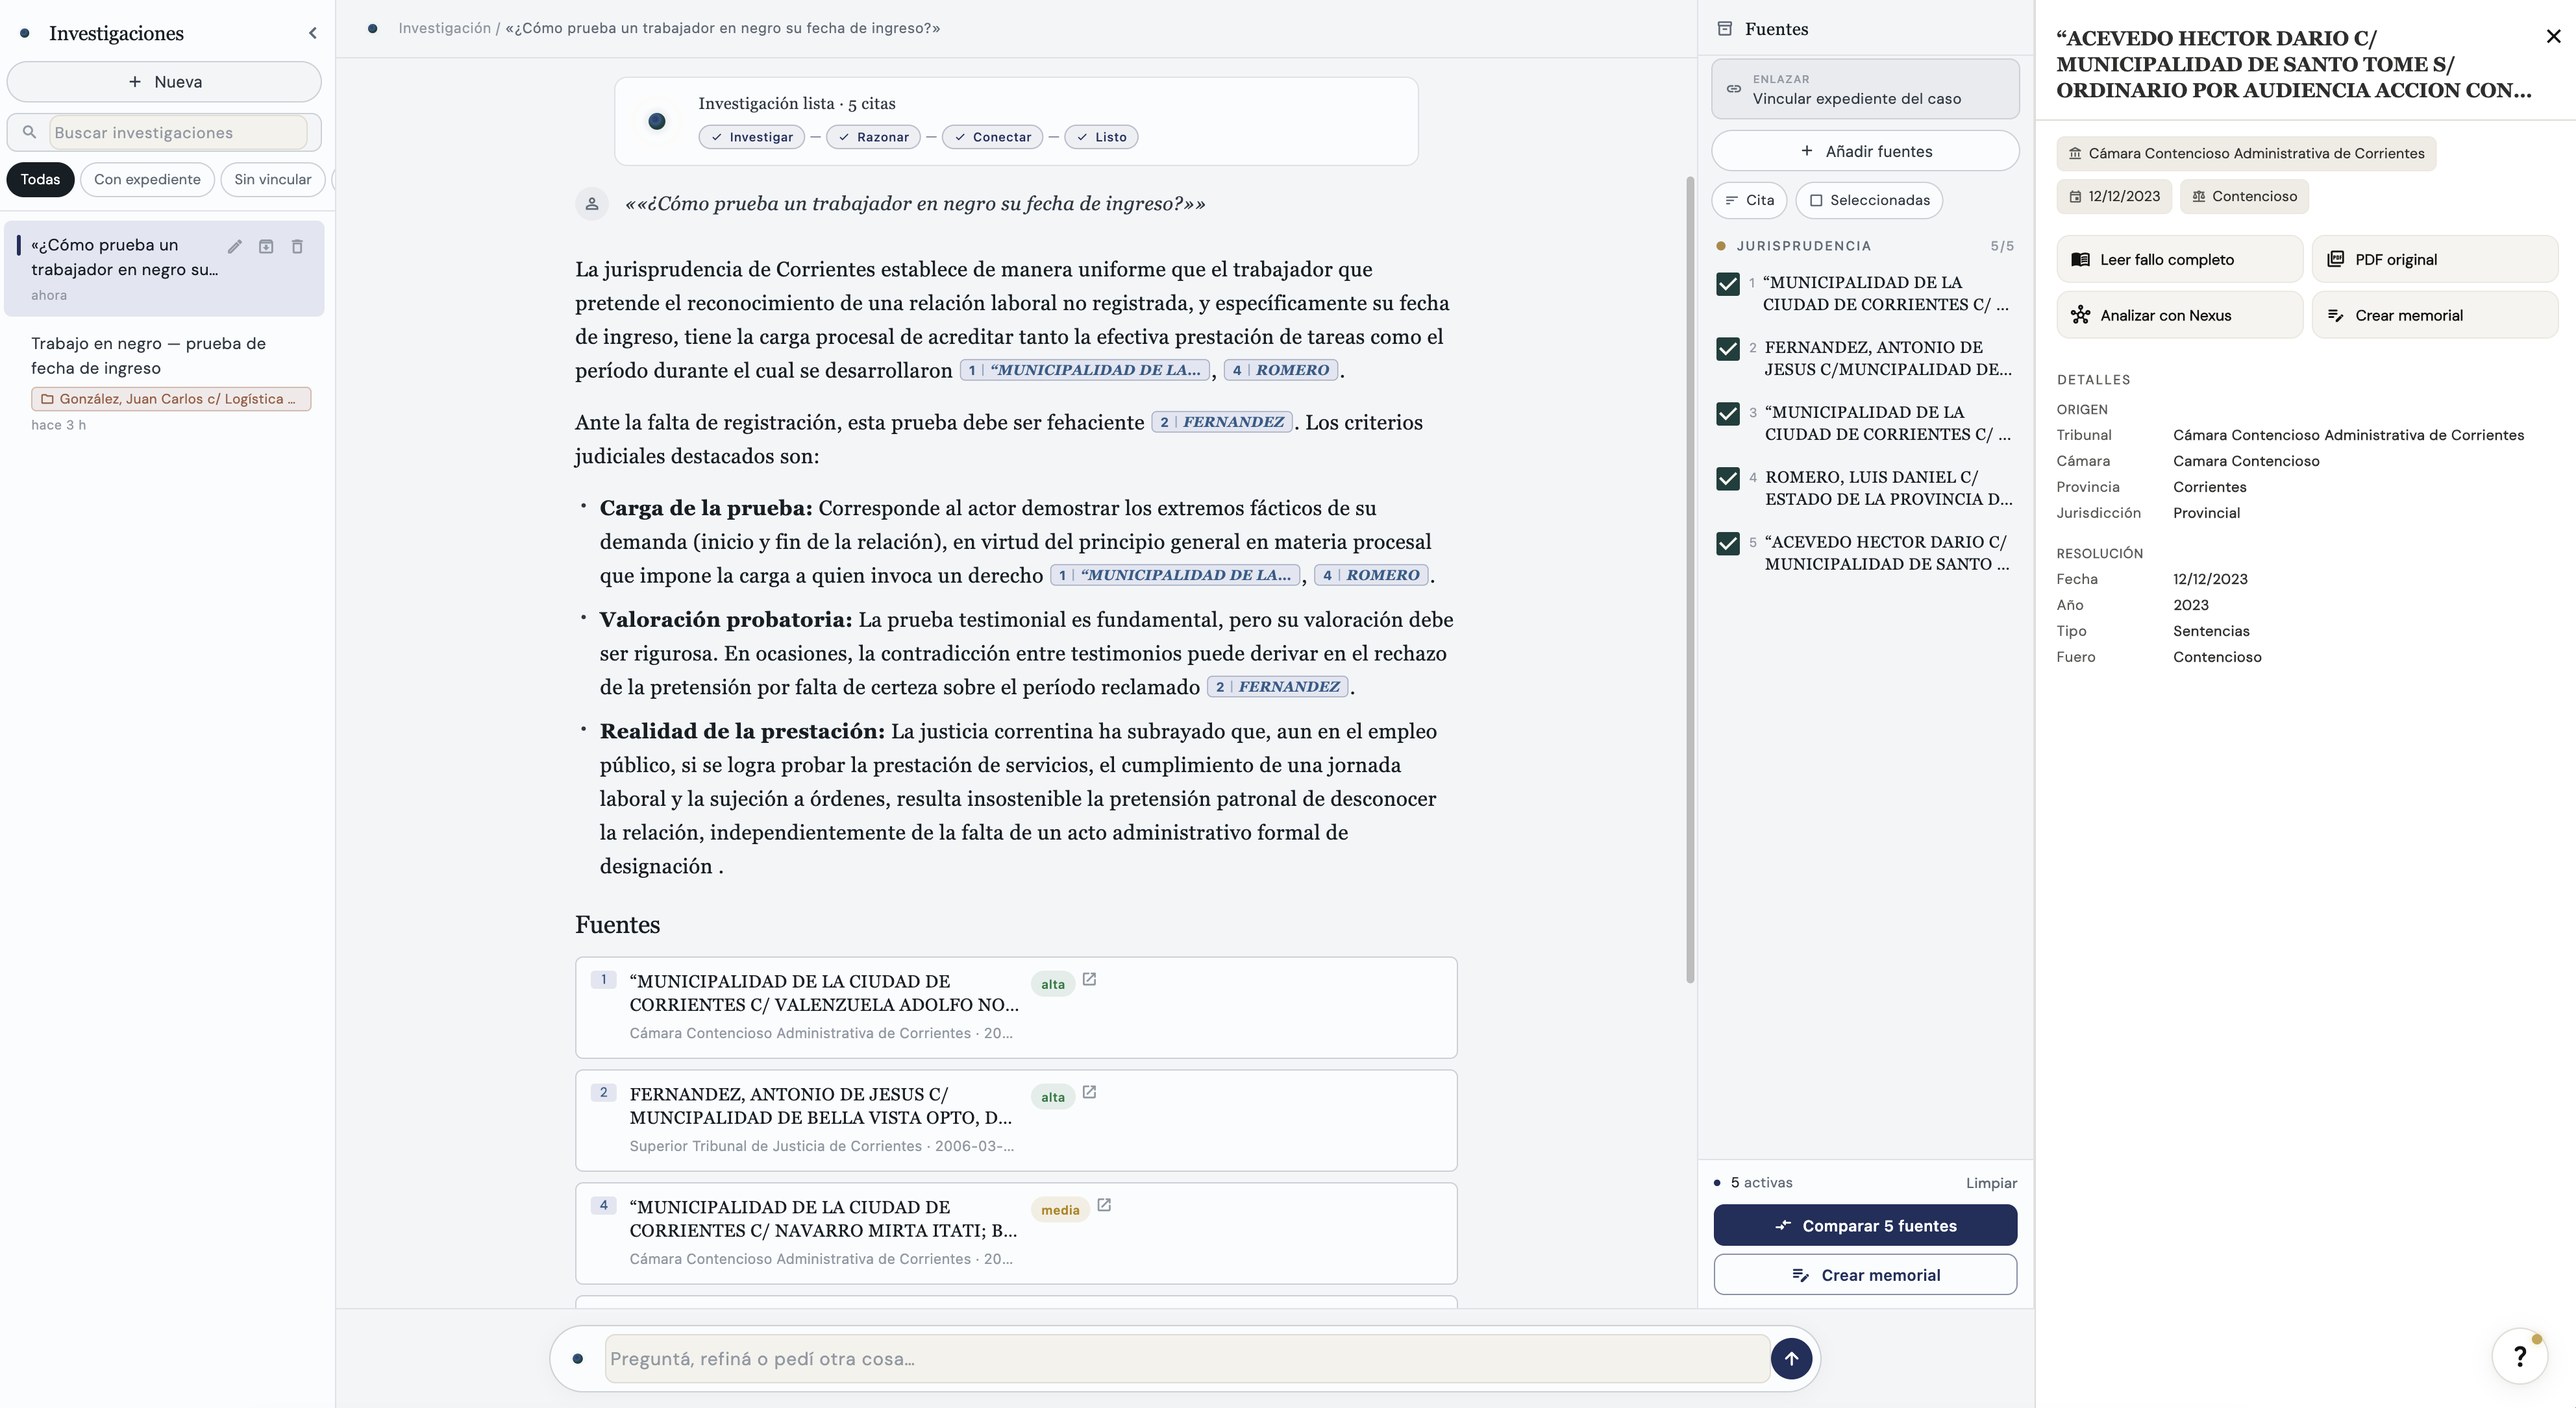
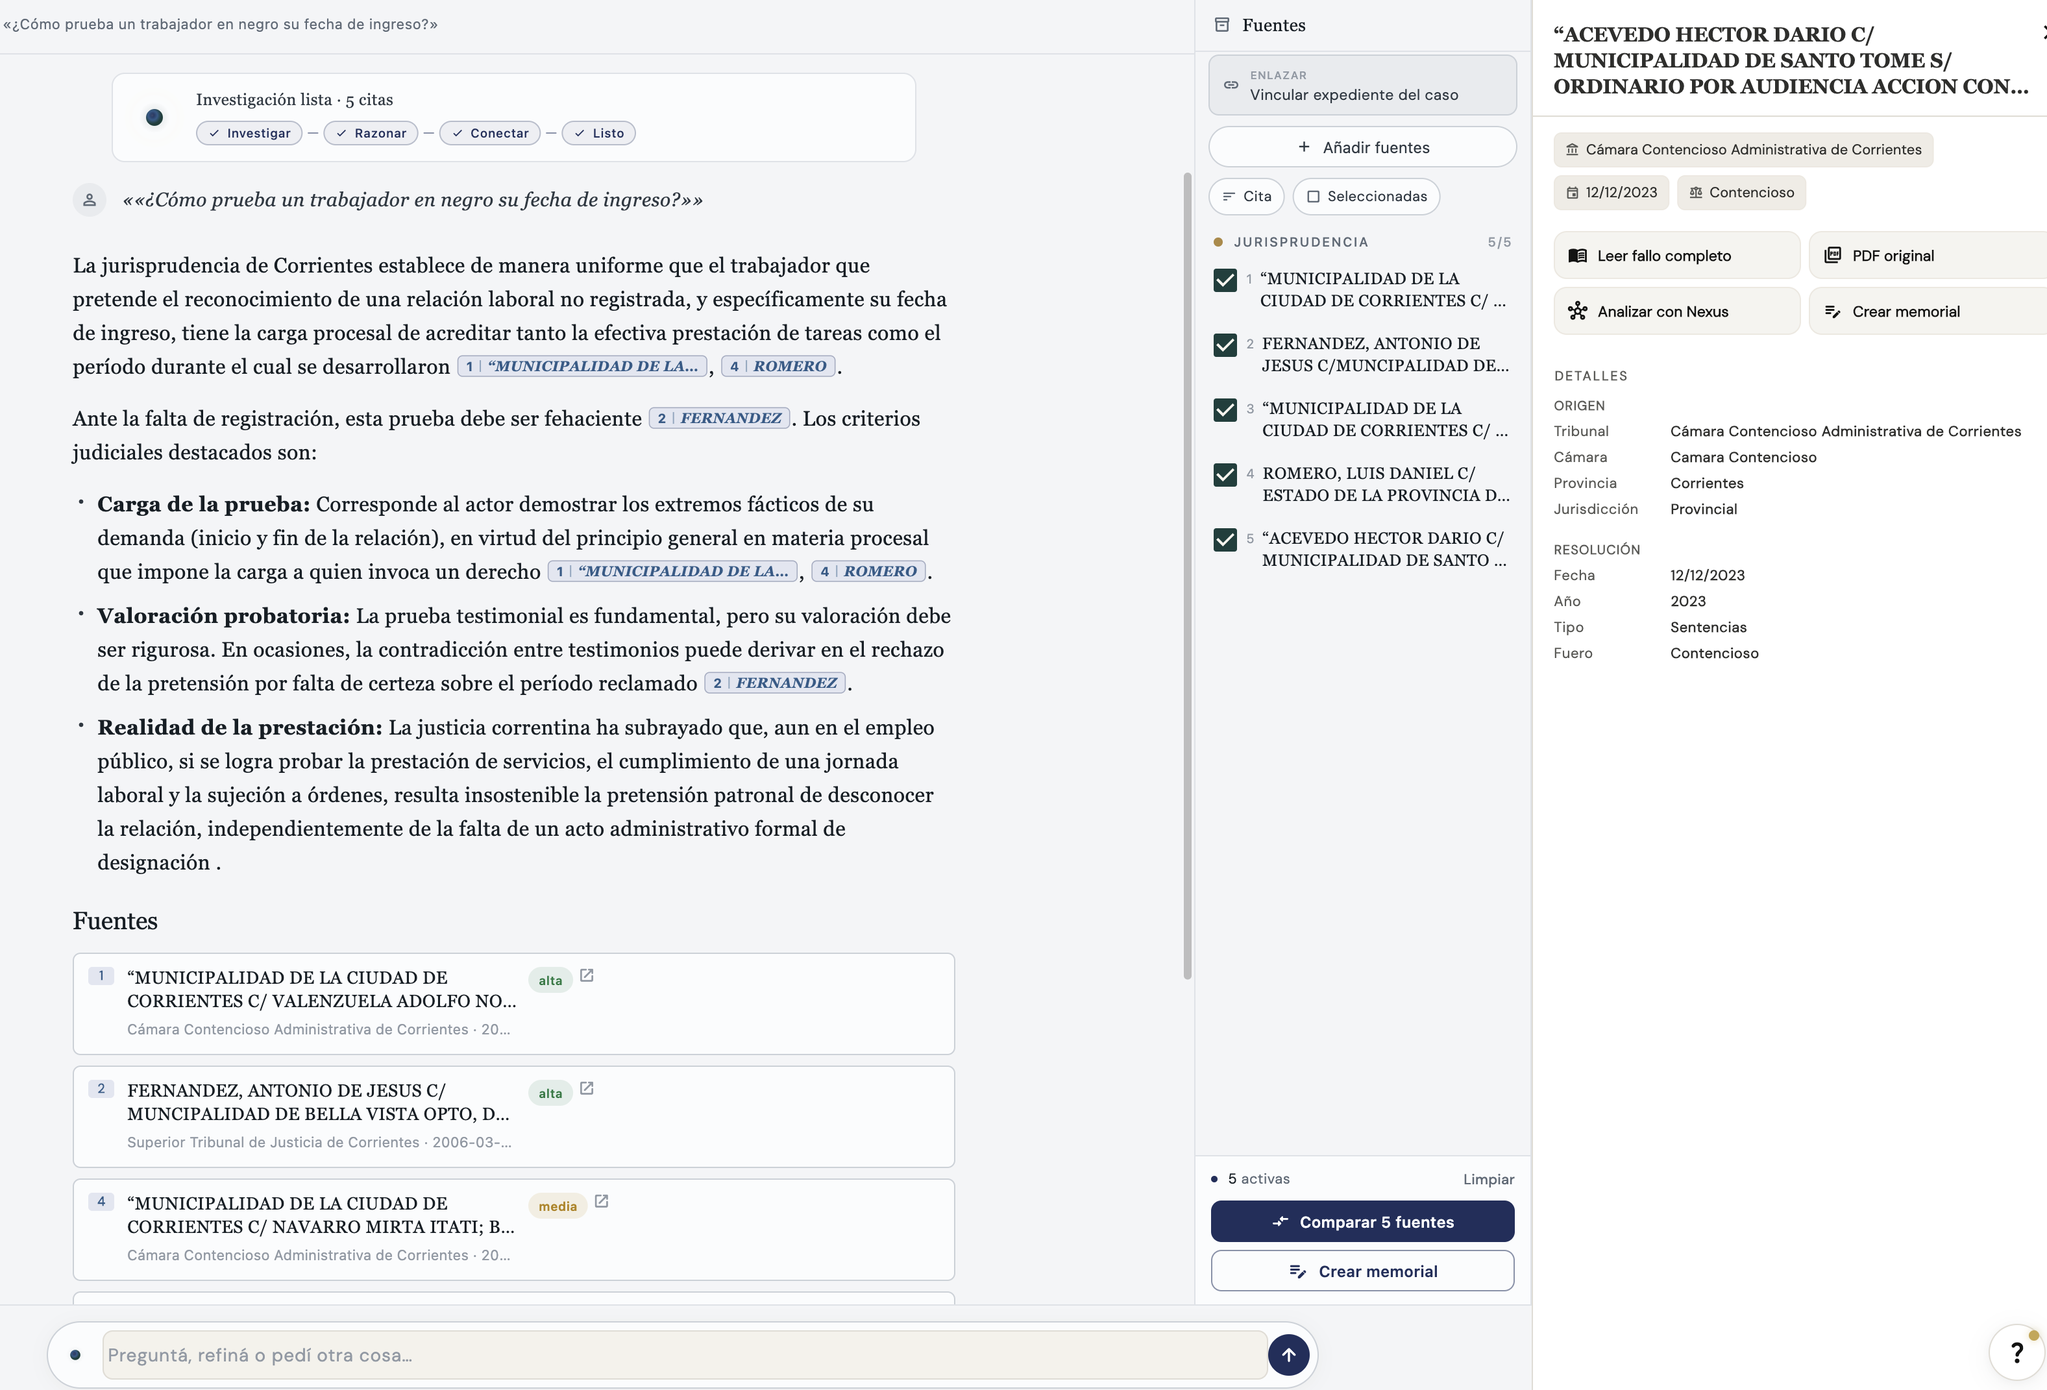
feat(landing): integridad del documento + 'Tu espacio' + parallax fuerte
Capturas nuevas y actualizadas:
- 20-integrity-overlay.png (nueva): overlay completo de Integridad del
  documento — archivo local + Drive + Dropbox vinculados a la
  Dra. Vallejos + QR + URL + SHA-256 + 'Insertar en proyecto'.
- 07-nexus.png, 09-digesto-lector.png, 10-digesto-search.png:
  re-tomadas con más resolución / mejor crop.

Cap. 2 'El expediente' pasa a 3 beats:
- beat 0: workspace tres paneles
- beat 1: timeline (copy reescrita: 'Cada actuación en orden, con
  su tipo, páginas y estado. El expediente se lee de un vistazo.'
  — sin prometer agrupamiento por etapa que no se ve)
- beat 2 (nuevo): integridad del documento. Copy:
  'Cada documento, con huella. Subís a tu Drive o Dropbox, y el QR
  + hash quedan impresos en el escrito — la firma del archivo,
  verificable desde el papel.'

Cap. 5:
- Eyebrow 'Capítulo V · Disciplina' → 'Capítulo V · Tu espacio'
  (Disciplina sonaba stern; 'Tu espacio' empareja con el h2 'Tu
  trabajo, tuyo.')
- Chapter strip arriba también actualizado.

Sprint 3 quick wins:
- Hero parallax mucho más perceptible: rango ±25 (era ±10) con
  multiplicadores per-layer (back 2.4×, mid 1.3×, front 0.6×).
  Cada ventana usa la propiedad `translate` que compone con
  `transform` sin pisar las 3D base transforms.
- Hero h1 con clamp más agresivo (clamp(2.6rem, 8vw, 5.2rem)) —
  ~44px en 375 viewport vs 38px antes.
- SEGUIR hint sube a 0.78rem + weight 500 + tracking 0.24em + color
  ink-soft (era 0.7rem ink-muted). Más legible sin gritar.

diff --git a/public/css/cinematic.css b/public/css/cinematic.css
@@ -126,6 +126,11 @@ body.cinematic .navbar.scrolled {
   display: inline-block;
   margin-bottom: 28px;
 }
+/* Hero-specific h1 sizing — pushes more aggressively below 980px so
+   the mobile hero hits real editorial scale (~44 px+ at 375 viewport). */
+.c-hero h1.c-display {
+  font-size: clamp(2.6rem, 8vw, 5.2rem);
+}
 .c-hero__sub {
   margin: 28px 0 0;
   font-size: clamp(1.05rem, 1.5vw, 1.25rem);
@@ -262,12 +267,28 @@ body.cinematic .navbar.scrolled {
   opacity: 0;
 }
 
-/* Subtle parallax follow — driven by JS via CSS variables */
+/* Pointer parallax — applied per-layer via `translate` (which composes
+   independently from `transform`, so the 3D base transforms stay
+   intact). Different multipliers create depth: back drifts most, front
+   barely. Range comes from JS (~±25). */
 .c-hero__stage {
   --px: 0;
   --py: 0;
-  transform: translate3d(calc(var(--px) * -1px), calc(var(--py) * -1px), 0);
   transition: transform 800ms var(--ease-cinema);
+}
+.c-window--back {
+  translate: calc(var(--px) * -2.4px) calc(var(--py) * -2.4px);
+}
+.c-window--mid {
+  translate: calc(var(--px) * -1.3px) calc(var(--py) * -1.3px);
+}
+.c-window--front {
+  translate: calc(var(--px) * -0.6px) calc(var(--py) * -0.6px);
+}
+.c-window {
+  transition: translate 480ms var(--ease-cinema),
+              transform 1200ms var(--ease-cinema),
+              opacity 1200ms var(--ease-cinema);
 }
 
 /* Hero ambient backdrop (very restrained) */
@@ -288,17 +309,18 @@ body.cinematic .navbar.scrolled {
 .c-hero__hint {
   position: absolute;
   left: 50%;
-  bottom: 32px;
+  bottom: 44px;
   transform: translateX(-50%);
   display: flex;
   flex-direction: column;
   align-items: center;
-  gap: 10px;
-  color: var(--ink-muted, #5a5a56);
+  gap: 12px;
+  color: var(--ink-soft, #4a4a46);
   font-family: var(--font-mono);
-  font-size: 0.7rem;
+  font-size: 0.78rem;
+  font-weight: 500;
   text-transform: uppercase;
-  letter-spacing: 0.22em;
+  letter-spacing: 0.24em;
   z-index: 2;
   pointer-events: none;
 }

diff --git a/index-cinematic.html b/index-cinematic.html
@@ -102,7 +102,7 @@
     <li><a href="#capitulo-2">El expediente</a></li>
     <li><a href="#capitulo-3">El escrito</a></li>
     <li><a href="#capitulo-4">Investigar</a></li>
-    <li><a href="#capitulo-5">Disciplina</a></li>
+    <li><a href="#capitulo-5">Tu espacio</a></li>
   </ol>
 </nav>
 
@@ -163,7 +163,10 @@
           <p>Actuaciones, documentos y tareas en un mismo hilo. Sin pestañas perdidas, sin pegado entre apps.</p>
         </div>
         <div class="c-chapter__beat" data-beat="1">
-          <p>El timeline agrupa por etapa procesal. Sabés qué falta y qué viene, sin abrir una hoja de cálculo.</p>
+          <p>Cada actuación en orden, con su tipo, páginas y estado. El expediente se lee de un vistazo.</p>
+        </div>
+        <div class="c-chapter__beat" data-beat="2">
+          <p>Cada documento, con huella. Subís a tu Drive o Dropbox, y el QR + hash quedan impresos en el escrito — la firma del archivo, verificable desde el papel.</p>
         </div>
       </div>
     </div>
@@ -173,6 +176,9 @@
       </div>
       <div class="c-shot" data-shot="1">
         <img src="public/assets/screenshots-v2/06-expediente-timeline.png" alt="Expediente — timeline de actuaciones" loading="lazy" />
+      </div>
+      <div class="c-shot" data-shot="2">
+        <img src="public/assets/screenshots-v2/20-integrity-overlay.png" alt="Integridad del documento — QR + hash + vinculación cloud" loading="lazy" />
       </div>
     </div>
   </div>
@@ -268,7 +274,7 @@
   <div class="c-chapter__sticky">
     <div class="c-chapter__copy">
       <span class="c-chapter__rail" aria-hidden="true"><span class="c-chapter__rail-fill"></span></span>
-      <span class="c-eyebrow">Capítulo V · Disciplina</span>
+      <span class="c-eyebrow">Capítulo V · Tu espacio</span>
       <h2 id="c-ch5-title" class="c-display">Tu trabajo,<br/><em>tuyo</em>.</h2>
       <div class="c-chapter__beats">
         <div class="c-chapter__beat" data-beat="0">

diff --git a/public/js/cinematic.js b/public/js/cinematic.js
@@ -52,9 +52,11 @@
       const r = stage.getBoundingClientRect();
       const cx = r.left + r.width / 2;
       const cy = r.top + r.height / 2;
-      // Range -10..10 px
-      tx = ((e.clientX - cx) / (r.width / 2)) * 10;
-      ty = ((e.clientY - cy) / (r.height / 2)) * 10;
+      // ±25 px range. Layers multiply this in CSS (back 2.4×, mid 1.3×,
+      // front 0.6×) so the parallax has real depth without feeling
+      // gimmicky — closer to apple.com macOS than to a tilt demo.
+      tx = ((e.clientX - cx) / (r.width / 2)) * 25;
+      ty = ((e.clientY - cy) / (r.height / 2)) * 25;
       if (!raf) raf = requestAnimationFrame(apply);
     };
     const apply = () => {
